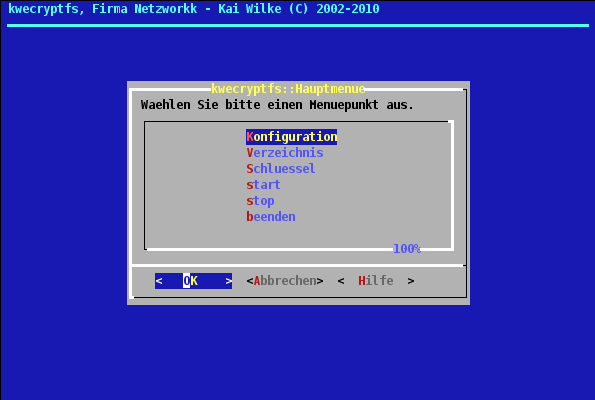
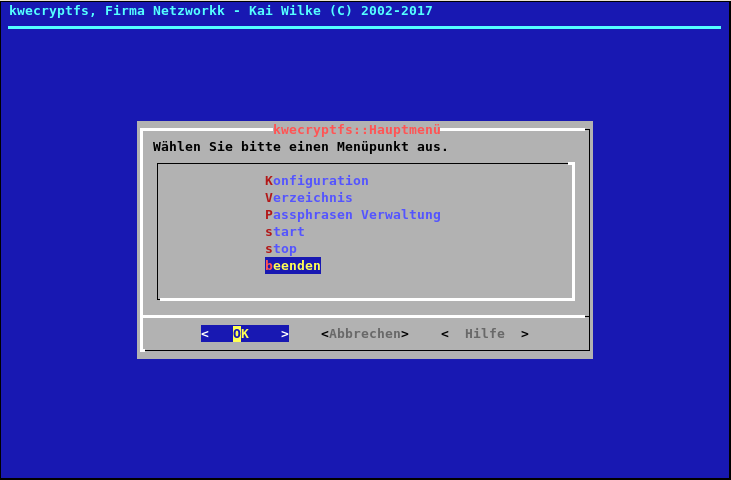
Neuer Screenshot von kwecryptfs.

Changed region(s): [[0.1815, 0.18, 0.8168, 0.78], [0.0, 0.0, 1.0, 1.0]]

diff --git a/doc/html/info/kwtools_screenshots/sys_kwecryptfs.html b/doc/html/info/kwtools_screenshots/sys_kwecryptfs.html
@@ -1,43 +1,43 @@
 <!DOCTYPE HTML PUBLIC "-//W3C//DTD HTML 4.01 Transitional//EN">
 <html>
 <head><title>Projekt:netzworkk:Scripts</title>
-        <meta name="generator" content="quanta">
-        <meta name="keywords" lang="en" content="Linux, linux, Netzworkk, kwtools, Screenshots">
-        <meta name="description" lang="en" content="">
-        <meta name="author" content="Kai Wilke / netzworkk.de">
-        <meta name="publisher" content="Kai Wilke / netzworkk.de">
-        <meta name="copyright" content="Kai Wilke / netzworkk.de">
-        <meta name="date" content="2010-03-15">
-        <meta http-equiv="content-type" content="text/html;charset=iso-8859-1">
-        <meta name="content-language" content="de">
+	<meta name="generator" content="vim">
+	<meta name="keywords" lang="en" content="Linux, linux, Netzworkk, kwtools, Screenshots">
+	<meta name="description" lang="en" content="">
+	<meta name="author" content="Kai Wilke / netzworkk.de">
+	<meta name="publisher" content="Kai Wilke / netzworkk.de">
+	<meta name="copyright" content="Kai Wilke / netzworkk.de">
+	<meta name="date" content="2017-08-01">
+	<meta http-equiv="content-type" content="text/html;charset=iso-8859-1">
+	<meta name="content-language" content="de">
 	<meta name="Robots" content="index,follow">
 	<link rel="icon" href="../../images/favicon.ico" type="image/ico">
-        <link href="../../css/style.css" type=text/css rel=stylesheet>
+	<link href="../../css/style.css" type=text/css rel=stylesheet>
 </head>
 <body>
 <table cellSpacing=0 cellPadding=0 width="100%" border=0>
-        <tbody>
-                <tr>
-                        <td width="2%"  height=15></td>
-                        <td width="96%" valign="top"><h2>kwecryptfs</h2></td>
-                        <td width="2%"></td>
-                </tr>
-                <tr>
-                        <td></td>
-                        <td><hr><br></td>
-                        <td></td>
-                </tr>
-                <tr>
-                        <td></td>
-                        <td align="center"><img src="../../images/kwtools_screenshots/sys_kwecryptfs.png" alt="kwecryptfs" width="595" height="400" align="top" border="0"></td>
-                        <td></td>
-                </tr>
-                <tr>
-                        <td></td>
-                        <td align="center"><br>Hauptmen&uuml;</td>
-                        <td></td>
-                </tr>
-        </tbody>
+	<tbody>
+		<tr>
+			<td width="2%"  height=15></td>
+			<td width="96%" valign="top"><h2>kwecryptfs</h2></td>
+			<td width="2%"></td>
+		</tr>
+		<tr>
+			<td></td>
+			<td><hr><br></td>
+			<td></td>
+		</tr>
+		<tr>
+			<td></td>
+			<td align="center"><img src="../../images/kwtools_screenshots/sys_kwecryptfs.png" alt="kwecryptfs" width="731" height="480" align="top" border="0"></td>
+			<td></td>
+		</tr>
+		<tr>
+			<td></td>
+			<td align="center"><br>Hauptmen&uuml;</td>
+			<td></td>
+		</tr>
+	</tbody>
 </table>
 </body>
 </html>
